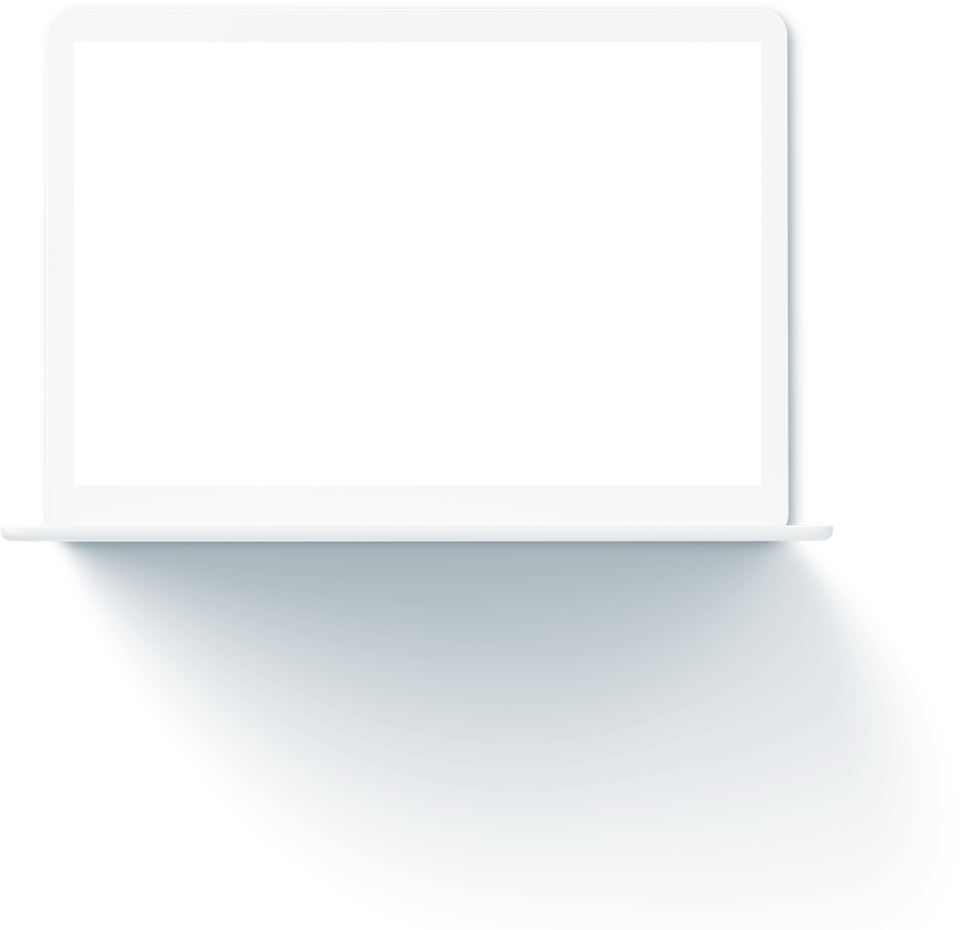
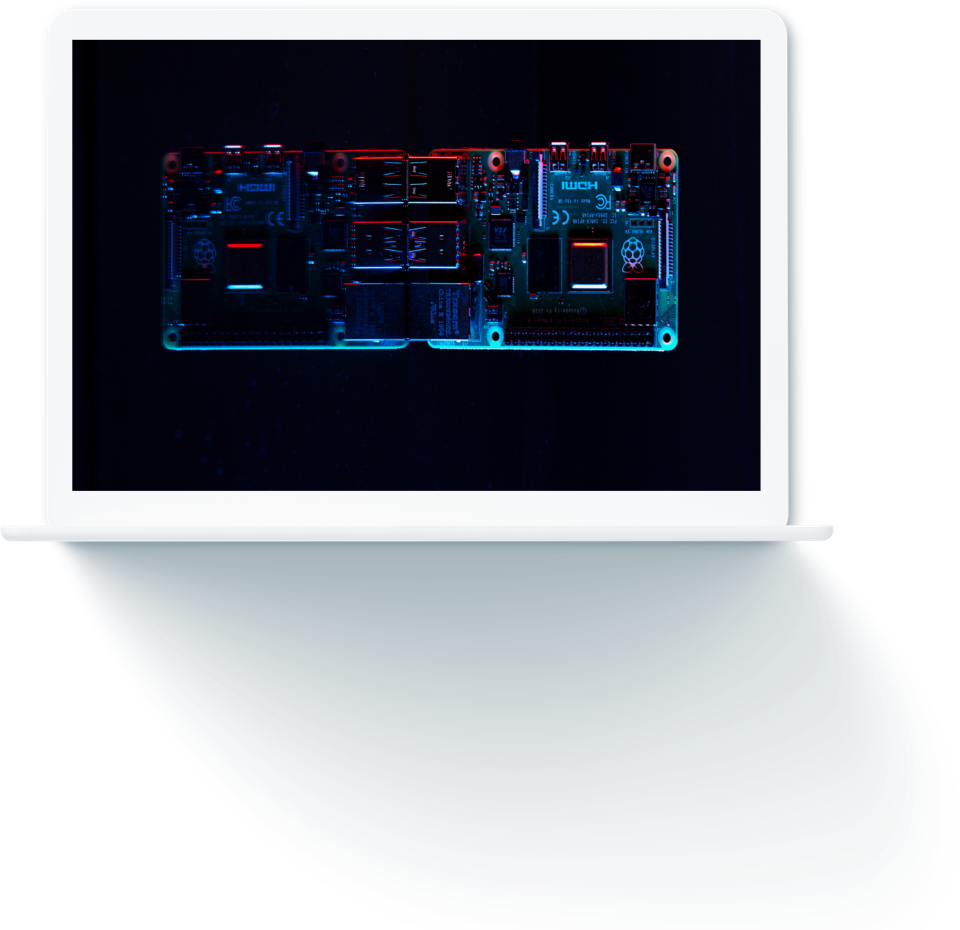
new header img ??????????

diff --git a/index.html b/index.html
@@ -820,7 +820,7 @@
                             data-textAlign="['left','left','left','left']" data-paddingtop="[0,0,0,0]"
                             data-paddingright="[0,0,0,0]" data-paddingbottom="[0,0,0,0]" data-paddingleft="[0,0,0,0]"
                             style="z-index: 12;"><img src="img/revoulation/dummy.png" alt="" data-ww="['654px','450px','400px','350px']"
-                                data-hh="['409px','290px','258px','226px']" data-lazyload="img/home-slide-11.jpg"
+                                data-hh="['409px','290px','258px','226px']" data-lazyload="phone.jpg"
                                 data-no-retina> </div>
 
                         <!-- LAYER NR. 9 -->
